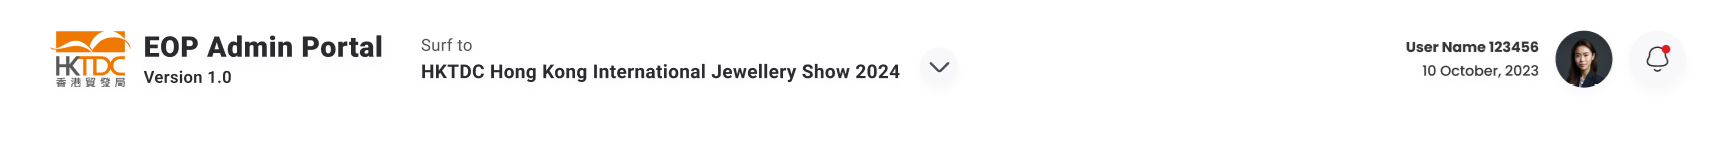
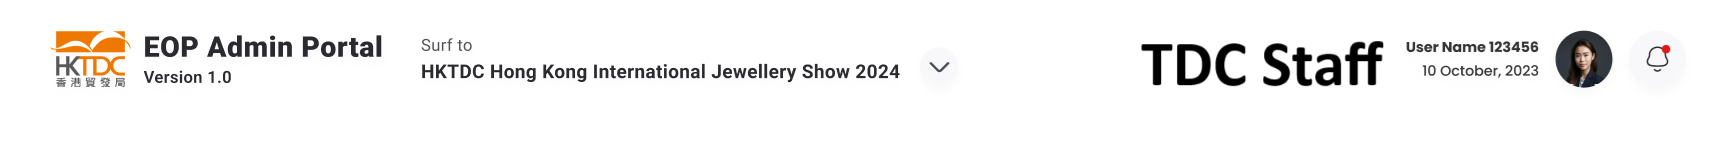
Add Reviewer Concept

Changed region(s): [[0.6513, 0.2778, 0.8373, 0.6111]]

diff --git a/target/classes/static/js/javascript.js b/target/classes/static/js/javascript.js
@@ -8,11 +8,92 @@ jQuery(function($) {
 
 
 container = document.getElementById("build-wrap");
+var options = {
+    controlPosition: 'right',
+    showActionButtons: false,
+    roles: {
+        'Agent': 'agent',
+        'Exhibitor': 'Exhibitor'
+    },
+    inputSets: [
+        {
+            label: 'T&C',
+            fields: JSON.parse(`[
+                        {
+                            "type": "header",
+                            "subtype": "h1",
+                            "label": "Terms and Conditions",
+                            "access": false
+                        },
+                        {
+                              "type": "paragraph",
+                              "label": "<br><br>",
+                              "access": false
+                        },
+                        {
+                            "type": "paragraph",
+                            "label": "I hereby apply for joining HKTDC Hong Kong International Jewellery Show 2024. We agree to abide by the \\"Terms of Application and Exhibition Rules & Regulations\\" and the \\"Terms & Conditions for Official Fair Magazines / Online Promotions\\" set out by the Organiser(s).\\n\\nI understand that my company could not enjoy the Convention & Exhibition Industry Subsidy Scheme using the same or other connected enterprise(s) for more than once at HKTDC Hong Kong International Jewellery Show to promote the same nature of products/services, and HKTDC has the right to request for more information/documents for accessing the eligibility of my company for enjoying the subsidy if needed. HKTDC reserves the right to collect the full participation fee from my company if it is found ineligible for the subsidy.\\n\\nWe acknowledge that the above information may be used by the Organiser(s) for incorporation in all or any of its database for direct marketing or business matching purpose, and for any other purposes as stated in the Privacy Policy Statement. We confirm that we have the consent and the authority of each individual named in this form to release their personal data for the purposes stated herein.\\n\\nThe Organiser(s) can on-pass our information to third parties for promotion of HKTDC Hong Kong International Jewellery Show 2024. We accept that the Organiser(s) bears no responsibility for any error or omission.",
+                            "access": false
+                        },
+                        {
+                              "type": "paragraph",
+                              "label": "<br><br>",
+                              "access": false
+                        },
+                        {
+                            "type": "checkbox-group",
+                            "required": true,
+                            "label": "I Confirm:",
+                            "toggle": false,
+                            "inline": false,
+                            "access": false,
+                            "other": false,
+                            "values": [
+                              {
+                                "label": "that the information provided in this form and the attached document(s) (including supplementary information and document(s) (if any)) are true, complete, and correct. Any incorrect/inaccurate information provided in this form and the attached document(s) (including supplementary information and document(s) (if any)) may render this application invalid. Full or partial refund of the subsidy shall be required.",
+                                "value": "1",
+                                "selected": false
+                              }
+                            ]
+                          },
+                          {
+                              "type": "checkbox-group",
+                              "required": true,
+                              "label": "I understand and accept:",
+                              "toggle": false,
+                              "inline": false,
+                              "access": false,
+                              "other": false,
+                              "values": [
+                                {
+                                  "label": "the application details, Terms and Conditions, and the content of this form. that the submission of this form does not constitute any guarantee or undertaking by the Organiser in respect of the eventual approval of any subsidy under the Scheme covered in this application. that the decisions of the Organiser in respect of this application are final, and that the Organiser reserves the right to adjust the amount of subsidy and reject the application without giving any reason and without incurring any liability of whatever nature to any person.",
+                                  "value": "2",
+                                  "selected": false
+                                }
+                              ]
+                            },
+                          {
+                              "type": "checkbox-group",
+                              "required": true,
+                              "label": "I accept:",
+                              "toggle": false,
+                              "inline": false,
+                              "access": false,
+                              "other": false,
+                              "values": [
+                                {
+                                  "label": "I have read the terms and conditions stated above and wish to signify my acceptance.",
+                                  "value": "3",
+                                  "selected": false
+                                }
+                              ]
+                            }
 
-  var options = {
-        controlPosition: 'right',
-        showActionButtons: false
-      };
+
+                    ]`)
+        }
+    ]
+};
   builder=$(container).formBuilder(options);
 
     const navItems = document.querySelectorAll('.nav-item.section');
@@ -105,7 +186,10 @@ $("#basic").next().slideDown();
           })
 
     }
-
+    function submitForApproval()
+    {
+            alert('Form:'+selectedFormVersion+" submit successfully");
+    }
     function deployFormAction()
     {
         var formData = JSON.parse(builder.actions.getData('json'));

diff --git a/target/classes/templates/adminFormBuilderReviewer.html b/target/classes/templates/adminFormBuilderReviewer.html
@@ -17,7 +17,7 @@
 
 <link rel="stylesheet" href="https://cdnjs.cloudflare.com/ajax/libs/font-awesome/6.0.0-beta3/css/all.min.css">
 <div>
-    <img src="./images/AdminHeader.png" style="width: 100%;"/>
+    <img src="./images/AdminHeaderReviewer.png" style="width: 100%;"/>
 </div>
 <head>
     <!-- You can Include your CSS here-->
@@ -106,7 +106,7 @@
             Live Version:
             <span th:text="${productionFormName}" style="color:red; margin-right: 10px;">Default Form Name</span>
 
-            <button id="deploy" class="toolbar-button" onclick="submitForApproval()">Submit for Review</button>
+            <button id="deploy" class="toolbar-button" onclick="deployFormAction()">Deploy</button>
             <select id="companyInfo" name="companyInfo" onchange="handleSelectChange(event)">
                 <option value="" selected>Select Form Version</option>
                 <option th:each="name : ${formList}" th:value="${name}" th:text="${name}"></option>

diff --git a/src/main/resources/static/js/javascript.js b/src/main/resources/static/js/javascript.js
@@ -11,9 +11,13 @@ container = document.getElementById("build-wrap");
 var options = {
     controlPosition: 'right',
     showActionButtons: false,
+    roles: {
+        'Agent': 'agent',
+        'Exhibitor': 'Exhibitor'
+    },
     inputSets: [
         {
-            label: 'PromotionInformation',
+            label: 'T&C',
             fields: JSON.parse(`[
                         {
                             "type": "header",
@@ -182,7 +186,10 @@ $("#basic").next().slideDown();
           })
 
     }
-
+    function submitForApproval()
+    {
+            alert('Form:'+selectedFormVersion+" submit successfully");
+    }
     function deployFormAction()
     {
         var formData = JSON.parse(builder.actions.getData('json'));

diff --git a/target/classes/templates/applicationForm.html b/target/classes/templates/applicationForm.html
@@ -20,7 +20,10 @@
 
 
     <source srcset="./images/ApplicantCompanyInformation_mobile.png" media="(max-width: 800px)">
-    <source srcset="./images/ApplicantCompanyInformation.png">
+    <source th:if="${imageType == 'Exibitor'}" th:srcset="@{/images/ApplicantCompanyInformation.png}" type="image/png">
+    <source th:if="${imageType == 'Agent'}" th:srcset="@{/images/ApplicantCompanyInformationAgent.png}" type="image/png">
+    <source th:if="${imageType == 'TDCStaff'}" th:srcset="@{/images/ApplicantCompanyInformationTDCStaff.png}" type="image/png">
+
     <img src="./images/ApplicantCompanyInformation.png" style="width:100%"/>
 </picture>
 

diff --git a/target/classes/static/js/renderJavascript.js b/target/classes/static/js/renderJavascript.js
@@ -33,7 +33,7 @@ const formattedDate = date.toLocaleString('en-US', {
             'Content-Type': 'application/json'
           },
           body: JSON.stringify({
-            name: formattedDate+"_companyInformationForm",
+            name: formattedDate+"_JewelleryShowForm",
             formType: "CompanyInformation",
             formData: formData  // This is now a JSON object, not a string
           })

diff --git a/target/classes/templates/previewForm.html b/target/classes/templates/previewForm.html
@@ -27,7 +27,7 @@
 <picture>
 
     <source srcset="./images/ApplicantCompanyInformation_mobile.png" media="(max-width: 800px)">
-    <source srcset="./images/ApplicantCompanyInformation.png">
+    <source srcset="./images/ApplicantCompanyInformationTDCStaff.png">
     <img src="./images/ApplicantCompanyInformation.png" style="width:100%"/>
 </picture>
 

diff --git a/src/main/java/com/varmeego/TDCProjectDemo/demo/controller/PageController.java b/src/main/java/com/varmeego/TDCProjectDemo/demo/controller/PageController.java
@@ -2,6 +2,7 @@ package com.varmeego.TDCProjectDemo.demo.controller;
 
 import com.fasterxml.jackson.databind.JsonNode;
 import com.fasterxml.jackson.databind.ObjectMapper;
+import com.google.gson.*;
 import com.varmeego.TDCProjectDemo.demo.DataModel.JSONForm;
 import com.varmeego.TDCProjectDemo.demo.DataModel.UserForm;
 import com.varmeego.TDCProjectDemo.demo.Service.JsonDataService;
@@ -12,6 +13,7 @@ import org.springframework.stereotype.Controller;
 import org.springframework.web.bind.annotation.*;
 import org.springframework.ui.Model;
 
+import java.util.Iterator;
 import java.util.List;
 
 @Controller
@@ -20,7 +22,37 @@ public class PageController {
     private UserDataService userDataService;
     @Autowired
     private JsonDataService jsonDataService;
+    @GetMapping("/companyInformationReviewer")
+    public String companyInformationReviewer(Model model) {
 
+        List<String> formList = jsonDataService.getNamesByFormType("CompanyInformation");
+
+        model.addAttribute("formList", formList);
+
+        List<JSONForm> deployed = jsonDataService.findDeployedFormByFormType("CompanyInformation");
+
+
+        ObjectMapper objectMapper = new ObjectMapper();
+        try {
+            // Parse JSON string into JsonNode
+            if(deployed.size()>0) {
+
+                JsonNode jsonNode = objectMapper.readTree(deployed.get(0).getData());
+                String name = jsonNode.get("name").asText();
+
+                // Print the value
+                System.out.println("Name: " + name);
+                model.addAttribute("productionFormName", name );
+            }
+            // Extract the value of the attribute "name"
+
+
+        } catch (Exception e) {
+            e.printStackTrace();
+        }
+
+        return "adminFormBuilderReviewer";
+    }
     @GetMapping("/companyInformationAdmin")
     public String companyInformationAdmin(Model model) {
 
@@ -56,16 +88,76 @@ public class PageController {
 
     @GetMapping("/companyInformation")
     public String companyInformation(Model model) {
-
         List<JSONForm> formList = jsonDataService.findDeployedFormByFormType("CompanyInformation");
-        if(formList.size()>0) {
-            model.addAttribute("formString", formList.get(0).getData());
-        }
+        if (formList.size() > 0) {
+            Gson gson = new Gson();
+            JsonObject jsonObject = JsonParser.parseString(formList.get(0).getData()).getAsJsonObject();
+            JsonArray jsonArray = jsonObject.getAsJsonArray("formData");
 
+            Iterator<JsonElement> iterator = jsonArray.iterator();
+            while (iterator.hasNext()) {
+                JsonElement field = iterator.next();
+                if (field.getAsJsonObject().has("role")) {
+                    String role = field.getAsJsonObject().get("role").getAsString();
+                    if (!role.equals("Exibitor")) {
+                        iterator.remove();
+                    }
+                }
+            }
+
+            // Convert the modified JsonObject back to a JSON string
+            String updatedJsonString = gson.toJson(jsonObject);
+
+            // Update the JSONForm object with the new JSON string
+            formList.get(0).setData(updatedJsonString);
+
+            // Pass the updated JSON string to the model attribute
+            model.addAttribute("formString", updatedJsonString);
+            model.addAttribute("imageType", "Exibitor");
+
+
+        }
 
 
         return "applicationForm";
     }
+
+    @GetMapping("/companyInformationAgent")
+    public String companyInformationAgent(Model model) {
+        List<JSONForm> formList = jsonDataService.findDeployedFormByFormType("CompanyInformation");
+        if (formList.size() > 0) {
+            Gson gson = new Gson();
+            JsonObject jsonObject = JsonParser.parseString(formList.get(0).getData()).getAsJsonObject();
+            JsonArray jsonArray = jsonObject.getAsJsonArray("formData");
+
+            Iterator<JsonElement> iterator = jsonArray.iterator();
+            while (iterator.hasNext()) {
+                JsonElement field = iterator.next();
+                if (field.getAsJsonObject().has("role")) {
+                    String role = field.getAsJsonObject().get("role").getAsString();
+                    if (!role.equals("Agent")) {
+                        iterator.remove();
+                    }
+                }
+            }
+
+            // Convert the modified JsonObject back to a JSON string
+            String updatedJsonString = gson.toJson(jsonObject);
+
+            // Update the JSONForm object with the new JSON string
+            formList.get(0).setData(updatedJsonString);
+
+            // Pass the updated JSON string to the model attribute
+            model.addAttribute("formString", updatedJsonString);
+            model.addAttribute("imageType", "Agent");
+
+        }
+
+
+        return "applicationForm";
+    }
+
+
     @GetMapping("/viewUserForm")
     public String viewUserForm(Model model, @RequestParam String formName) {
 
@@ -75,6 +167,7 @@ public class PageController {
         }
 
 
+        model.addAttribute("imageType", "TDCStaff");
 
         return "applicationForm";
     }
